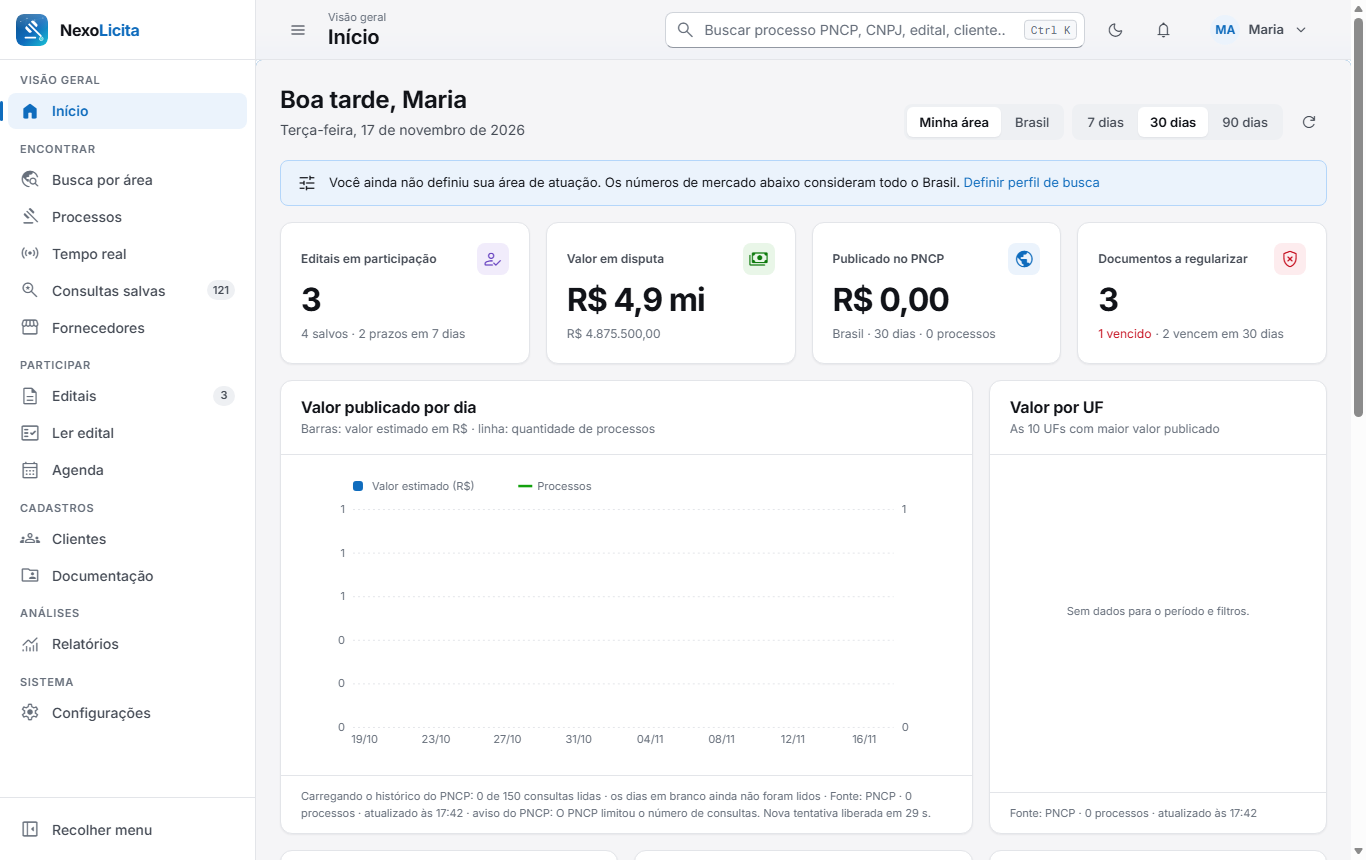
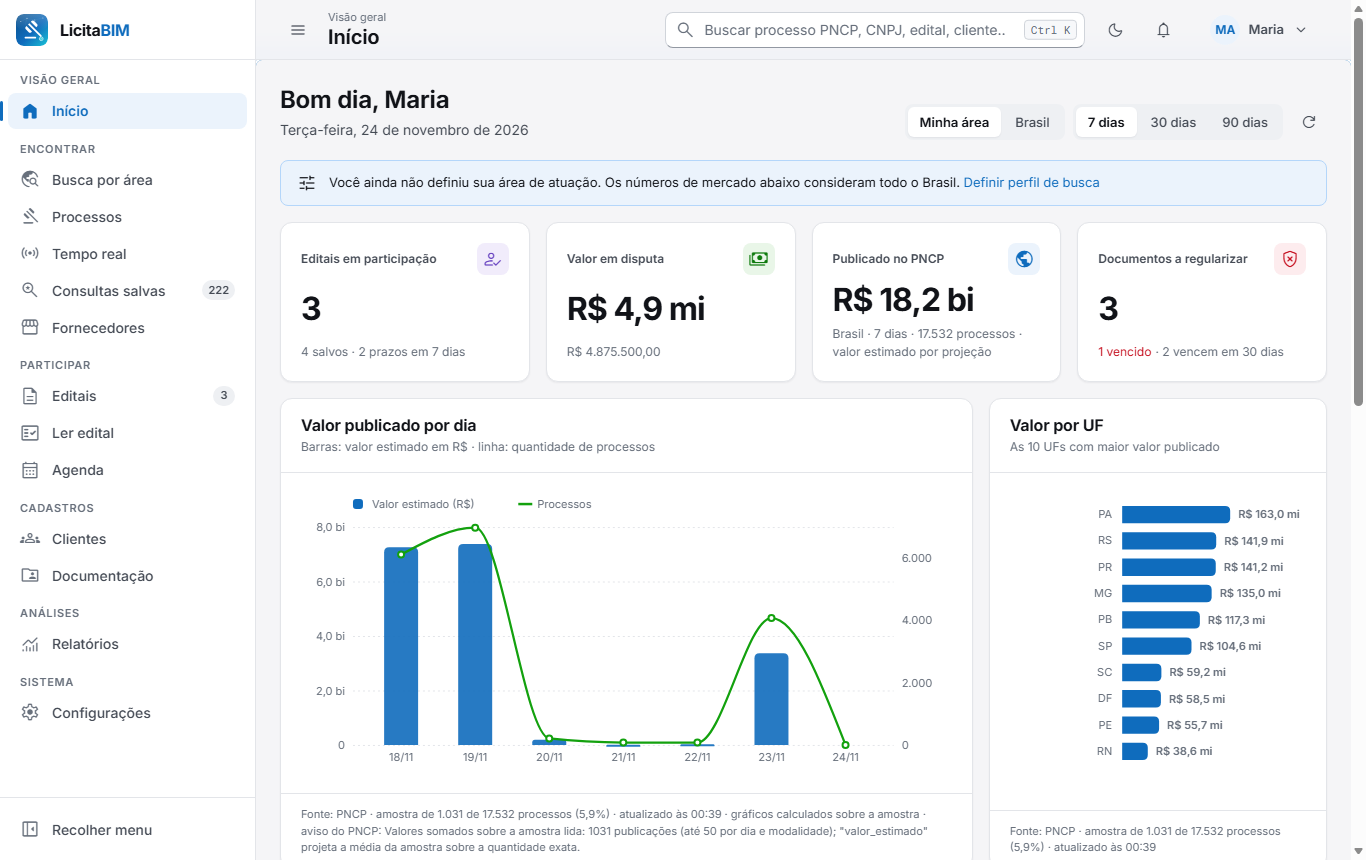
Site atualizado para o LicitaBIM 6.3.0
Remove informações de versões anteriores: módulos que o programa não tem
(Atas, Planos de compra, Contratos), a licença MIT e as promessas de
download gratuito e código aberto (o programa é privado). Capturas refeitas
com a marca LicitaBIM (as antigas mostravam NexoLicita), parecer de
habilitação, canonical e og:image com endereço absoluto.

diff --git a/index.html b/index.html
@@ -8,7 +8,9 @@
   <meta name="theme-color" content="#07090c">
   <meta property="og:title" content="LicitaBIM — licitações públicas com clareza">
   <meta property="og:description" content="Encontre, analise e dispute licitações com dados oficiais do PNCP. Feito em Manaus/AM.">
-  <meta property="og:image" content="img/inicio-1366-light.png">
+  <meta property="og:image" content="https://regivaldsud.github.io/licitaobrasbim-site/img/inicio-1366-light.png">
+  <meta property="og:url" content="https://regivaldsud.github.io/licitaobrasbim-site/">
+  <link rel="canonical" href="https://regivaldsud.github.io/licitaobrasbim-site/">
   <link rel="icon" href="img/favicon-32.png">
   <link rel="apple-touch-icon" href="img/icon-192.png">
   <link rel="preload" href="fonts/inter-latin.woff2" as="font" type="font/woff2" crossorigin>
@@ -29,7 +31,7 @@
     </nav>
     <span class="spacer"></span>
     <a class="btn ghost" href="#contato" style="color:#fff">Falar com a equipe</a>
-    <a class="btn primary" href="#baixar" data-download><span class="ms">download</span>Baixar grátis</a>
+    <a class="btn primary" href="#baixar" data-download><span class="ms">download</span>Pedir o instalador</a>
     <button class="burger" id="burger" aria-label="Abrir menu" aria-expanded="false" aria-controls="menu"><span class="ms">menu</span></button>
   </div>
 </header>
@@ -42,10 +44,10 @@
     <h1>Você decide o preço.<br><span class="grad-text">O LicitaBIM organiza o resto.</span></h1>
     <p class="lead">Encontra o edital no PNCP, lê o PDF, monta o checklist de habilitação, confere a validade de cada certidão e acompanha a sessão pública lance a lance. A decisão de participar e o valor da proposta continuam com você.</p>
     <div class="cta">
-      <a class="btn primary" href="#baixar" data-download><span class="ms">download</span>Baixar para Windows</a>
+      <a class="btn primary" href="#baixar" data-download><span class="ms">download</span>Pedir o instalador para Windows</a>
       <a class="btn ghost" href="#dia" style="color:#fff"><span class="ms">play_circle</span>Ver um dia de uso</a>
     </div>
-    <p class="note">Gratuito e de código aberto (licença MIT) · instala em minutos · seus dados ficam no seu computador</p>
+    <p class="note">Versão 6.3.0 · instalador para Windows com tudo incluído · seus dados ficam no seu computador</p>
     <div class="shot rv"><div class="bar"><i></i><i></i><i></i></div><img src="img/inicio-1366-dark.png" alt="Tela inicial do LicitaBIM com indicadores e gráficos do mercado" width="1366" height="820"></div>
   </div>
 </section>
@@ -83,18 +85,20 @@
     <div class="head rv"><span class="eyebrow">Módulos</span><h2>Um módulo para cada etapa da sua licitação</h2>
       <p class="lead">Cada tela cuida de uma parte do caminho e entrega o resultado para a próxima. Nada é enviado em seu nome: o LicitaBIM organiza, você confere e decide.</p></div>
     <div class="mods">
-      <div class="mod rv"><span class="ic"><span class="ms">travel_explore</span></span><h3>Busca por área</h3><p>Contratações abertas no PNCP, classificadas pela aderência ao seu perfil, com o motivo de cada nota.</p><span class="tag">Encontrar</span></div>
-      <div class="mod rv"><span class="ic"><span class="ms">saved_search</span></span><h3>Consultas salvas</h3><p>Monte a busca uma vez; ela roda sozinha no intervalo escolhido e guarda cada licitação nova.</p><span class="tag">Encontrar</span></div>
-      <div class="mod rv"><span class="ic"><span class="ms">gavel</span></span><h3>Processo 360°</h3><p>Itens, arquivos, resultados, histórico e perfil do órgão de qualquer compra do PNCP.</p><span class="tag">Encontrar</span></div>
-      <div class="mod rv"><span class="ic"><span class="ms">handshake</span></span><h3>Atas (carona)</h3><p>Atas de registro de preço vigentes com itens e fornecedores, para avaliar adesão.</p><span class="tag">Encontrar</span></div>
-      <div class="mod rv"><span class="ic"><span class="ms">event_note</span></span><h3>Planos de compra</h3><p>O PCA dos órgãos: o que eles planejam comprar no ano, antes do edital sair.</p><span class="tag">Antecipar</span></div>
+      <div class="mod rv"><span class="ic"><span class="ms">travel_explore</span></span><h3>Busca por área</h3><p>Contratações abertas no PNCP, com nota de aderência explicada. Filtra por esfera, órgãos federais e Forças Armadas, e continua buscando até analisar todos os registros.</p><span class="tag">Encontrar</span></div>
+      <div class="mod rv"><span class="ic"><span class="ms">saved_search</span></span><h3>Consultas salvas</h3><p>Monte a busca uma vez; o agente a refaz no intervalo escolhido, registra dia e horário de cada execução e guarda cada licitação nova.</p><span class="tag">Encontrar</span></div>
+      <div class="mod rv"><span class="ic"><span class="ms">gavel</span></span><h3>Processo 360°</h3><p>Resumo em linguagem simples, itens, arquivos, resultados e histórico de qualquer compra do PNCP, com download do processo completo em ZIP.</p><span class="tag">Encontrar</span></div>
+      <div class="mod rv"><span class="ic"><span class="ms">sensors</span></span><h3>Tempo real</h3><p>Monitora os processos salvos, avisa quando algo muda e mostra as novas publicações da sua área.</p><span class="tag">Acompanhar</span></div>
+      <div class="mod rv"><span class="ic"><span class="ms">storefront</span></span><h3>Fornecedores</h3><p>Cadastro na Receita, contratos com o governo e itens vencidos de qualquer CNPJ, mais pesquisa de preços.</p><span class="tag">Inteligência</span></div>
+      <div class="mod rv"><span class="ic"><span class="ms">description</span></span><h3>Editais</h3><p>Carteira de participação: acompanhando, vou participar, em preparação, proposta enviada, ganhamos ou perdemos.</p><span class="tag">Participar</span></div>
       <div class="mod rv"><span class="ic"><span class="ms">fact_check</span></span><h3>Ler edital</h3><p>Lê o PDF e monta o checklist de habilitação com a página e o trecho de cada exigência.</p><span class="tag">Analisar</span></div>
+      <div class="mod rv"><span class="ic"><span class="ms">verified</span></span><h3>Parecer de habilitação</h3><p>Apta, regularizar ou não apta: pontuação, risco, alerta de exequibilidade abaixo de 75% e parecer em PDF no padrão ABNT.</p><span class="tag">Habilitar</span></div>
+      <div class="mod rv"><span class="ic"><span class="ms">leaderboard</span></span><h3>Sessão pública</h3><p>As 9 fases do rito, lances por fornecedor com ranking e desconto, mensagens do pregoeiro e importação do PNCP.</p><span class="tag">Disputar</span></div>
+      <div class="mod rv"><span class="ic"><span class="ms">calendar_month</span></span><h3>Agenda</h3><p>Aberturas, encerramentos de propostas e vencimentos de documentos num só calendário, exportável em .ics.</p><span class="tag">Participar</span></div>
+      <div class="mod rv"><span class="ic"><span class="ms">groups</span></span><h3>Clientes</h3><p>Empresas atendidas com perfil de busca, dossiê e editais próprios. Aceita o novo CNPJ alfanumérico.</p><span class="tag">Cadastros</span></div>
       <div class="mod rv"><span class="ic"><span class="ms">folder_shared</span></span><h3>Documentação</h3><p>Certidões de todos os clientes com validade, alertas de vencimento e onde emitir cada uma.</p><span class="tag">Habilitar</span></div>
-      <div class="mod rv"><span class="ic"><span class="ms">leaderboard</span></span><h3>Sessão pública</h3><p>Fases do rito, lances por fornecedor com ranking e desconto, mensagens do pregoeiro.</p><span class="tag">Disputar</span></div>
-      <div class="mod rv"><span class="ic"><span class="ms">sensors</span></span><h3>Tempo real</h3><p>Monitora os processos salvos e avisa quando muda situação, prazo ou valor.</p><span class="tag">Acompanhar</span></div>
-      <div class="mod rv"><span class="ic"><span class="ms">storefront</span></span><h3>Fornecedores</h3><p>Cadastro na Receita, contratos em todo o Brasil e itens vencidos de qualquer CNPJ.</p><span class="tag">Inteligência</span></div>
-      <div class="mod rv"><span class="ic"><span class="ms">receipt_long</span></span><h3>Contratos</h3><p>Depois da vitória: vigência, termos aditivos e notas fiscais de cada contrato.</p><span class="tag">Executar</span></div>
       <div class="mod rv"><span class="ic"><span class="ms">monitoring</span></span><h3>Relatórios</h3><p>Painel de mercado com valores reais em R$ e documentos em PDF no padrão ABNT.</p><span class="tag">Analisar</span></div>
+      <div class="mod rv"><span class="ic"><span class="ms">smartphone</span></span><h3>Celular e equipe</h3><p>Acesso pela rede privada Tailscale, perfis de acesso por pessoa e auditoria de cada alteração.</p><span class="tag">Sistema</span></div>
     </div>
   </div>
 </section>
@@ -126,7 +130,8 @@
       <ul class="ticks">
         <li><span class="ms">menu_book</span>Lê também o Termo de Referência quando o edital remete a ele.</li>
         <li><span class="ms">rule</span>Compara o checklist com os documentos do cliente e mostra o % de prontidão.</li>
-        <li><span class="ms">picture_as_pdf</span>Relatório do edital em PDF no padrão ABNT.</li>
+        <li><span class="ms">verified</span>Parecer de habilitação: apta, regularizar ou não apta, com risco e alerta de exequibilidade.</li>
+        <li><span class="ms">picture_as_pdf</span>Relatório do edital e parecer em PDF no padrão ABNT.</li>
       </ul>
       <a class="link" href="#prometemos">Leia também o que não prometemos<span class="ms">arrow_forward</span></a>
     </div>
@@ -182,7 +187,7 @@
     <div class="rv"><span class="eyebrow" style="color:#7fe3ee">Quem decide</span>
       <h2 style="font-size:clamp(32px,4.6vw,56px);margin-top:12px">O preço é seu. O resto o LicitaBIM organiza.</h2>
       <p class="lead center" style="color:#c9d5e3;margin:18px auto 0">Você conhece a sua margem e o seu piso. O programa cuida de encontrar, ler, conferir, lembrar e registrar, para você chegar na sessão com tudo no lugar.</p>
-      <div style="margin-top:30px;display:flex;gap:12px;justify-content:center;flex-wrap:wrap"><a class="btn light" href="#baixar" data-download><span class="ms">download</span>Baixar grátis</a><a class="btn ghost" href="#contato" style="color:#fff">Falar com a equipe</a></div></div>
+      <div style="margin-top:30px;display:flex;gap:12px;justify-content:center;flex-wrap:wrap"><a class="btn light" href="#baixar" data-download><span class="ms">download</span>Pedir o instalador</a><a class="btn ghost" href="#contato" style="color:#fff">Falar com a equipe</a></div></div>
   </div>
 </section>
 
@@ -240,7 +245,7 @@
       <span class="eyebrow"><span class="ms">visibility</span>Controle</span>
       <h2>Organizar não é trabalhar no escuro</h2>
       <p class="lead">Você vê cada consulta que o programa executou, com dia, horário e quantos registros do PNCP analisou. Vê a validade de cada certidão, o que já virou contrato e o que ainda depende de você.</p>
-      <a class="link" href="#baixar" data-download>Baixar e experimentar<span class="ms">arrow_forward</span></a>
+      <a class="link" href="#contato">Pedir uma demonstração<span class="ms">arrow_forward</span></a>
     </div>
     <div class="frame rv"><img src="img/consulta-historico-1366-light.png" alt="Histórico de execuções das consultas salvas" loading="lazy"></div>
   </div>
@@ -249,11 +254,11 @@
 <!-- 15. Preço -->
 <section class="s" id="preco">
   <div class="wrap">
-    <div class="head center rv" style="text-align:center"><span class="eyebrow">Preço</span><h2>Quanto custa</h2><p class="lead center">O LicitaBIM é gratuito e de código aberto. Se a sua empresa quiser ajuda para implantar, treinar a equipe ou adaptar o programa, a gente conversa.</p></div>
+    <div class="head center rv" style="text-align:center"><span class="eyebrow">Preço</span><h2>Quanto custa</h2><p class="lead center">O valor depende do número de clientes, de usuários e do apoio que a sua equipe precisa. Conte como você trabalha e enviamos a proposta.</p></div>
     <div class="price">
-      <div class="plan hl rv"><span class="tagp">Para começar hoje</span><h3>LicitaBIM</h3><div class="val">R$ 0<small> · licença MIT</small></div>
-        <ul><li><span class="ms">check</span>Todos os módulos, sem limite de clientes ou usuários.</li><li><span class="ms">check</span>Instalador para Windows com tudo incluído.</li><li><span class="ms">check</span>Acesso pelo celular na sua rede privada.</li><li><span class="ms">check</span>Atualizações publicadas no repositório.</li></ul>
-        <a class="btn primary" href="#baixar" data-download><span class="ms">download</span>Baixar grátis</a></div>
+      <div class="plan hl rv"><span class="tagp">O programa</span><h3>Licença LicitaBIM</h3><div class="val" style="font-size:32px">Sob consulta</div>
+        <ul><li><span class="ms">check</span>Todos os módulos da versão 6.3.0.</li><li><span class="ms">check</span>Instalador para Windows com tudo incluído.</li><li><span class="ms">check</span>Acesso pelo celular na sua rede privada.</li><li><span class="ms">check</span>Atualizações de versão enviadas pela equipe.</li></ul>
+        <a class="btn primary" href="#baixar" data-download><span class="ms">download</span>Pedir o instalador</a></div>
       <div class="plan rv"><span class="tagp">Para equipes</span><h3>Implantação e suporte</h3><div class="val" style="font-size:32px">Sob consulta</div>
         <ul><li><span class="ms">check</span>Instalação e configuração do acesso remoto.</li><li><span class="ms">check</span>Cadastro inicial de clientes e documentos.</li><li><span class="ms">check</span>Treinamento da equipe em cada módulo.</li><li><span class="ms">check</span>Ajustes sob medida para o seu processo.</li></ul>
         <a class="btn ghost" href="#contato" style="color:var(--blue)">Falar com a equipe</a></div>
@@ -266,7 +271,7 @@
   <div class="wrap">
     <div class="head center rv" style="text-align:center"><span class="eyebrow">Perguntas frequentes</span><h2>Antes de começar</h2></div>
     <div class="faq">
-      <details><summary>O que é grátis?<span class="ms">add</span></summary><p>O programa inteiro. O LicitaBIM é distribuído sob a licença MIT: você pode usar, copiar e adaptar sem custo. Só a implantação assistida e o suporte dedicado são cobrados, se você quiser.</p></details>
+      <details><summary>Como recebo o programa?<span class="ms">add</span></summary><p>Pelo formulário de contato. A equipe envia o instalador para Windows (versão 6.3.0) e orienta o primeiro acesso, em que você cria o administrador.</p></details>
       <details><summary>Preciso de internet?<span class="ms">add</span></summary><p>Para abrir o programa, não: o instalador traz tudo o que ele precisa. Para consultar o PNCP, o Compras.gov.br e os dados de CNPJ, sim, porque esses dados vêm das fontes oficiais na hora.</p></details>
       <details><summary>Onde ficam os meus dados?<span class="ms">add</span></summary><p>No seu computador, na pasta de dados do Windows (%APPDATA%\LicitaBIM). Eles são preservados quando você atualiza o programa e não são enviados para servidores de terceiros.</p></details>
       <details><summary>Como uso pelo celular?<span class="ms">add</span></summary><p>Em Configurações → Acesso remoto, ligue o acesso pelo Tailscale. Abra o endereço HTTPS mostrado num celular conectado à mesma conta Tailscale e instale como aplicativo.</p></details>
@@ -275,7 +280,7 @@
       <details><summary>Em quais portais ele busca?<span class="ms">add</span></summary><p>No Portal Nacional de Contratações Públicas (PNCP), que reúne as contratações de União, estados e municípios pela Lei 14.133, e no Compras.gov.br para contratos, preços e catálogo. A sessão de lances acontece no portal do órgão; o LicitaBIM registra e organiza.</p></details>
       <details><summary>Serve para escritórios com vários clientes?<span class="ms">add</span></summary><p>Sim. Cada cliente tem perfil, documentos e editais próprios, e cada pessoa da equipe tem um perfil de acesso com permissões diferentes.</p></details>
       <details><summary>Funciona no Mac ou no Linux?<span class="ms">add</span></summary><p>O instalador é para Windows. No Mac e no Linux o programa roda em modo servidor (Python) e é usado pelo navegador.</p></details>
-      <details><summary>Quem desenvolve o LicitaBIM?<span class="ms">add</span></summary><p>Uma equipe de Manaus, no Amazonas. O código é aberto, então qualquer pessoa pode conferir como o programa trata os dados.</p></details>
+      <details><summary>Quem desenvolve o LicitaBIM?<span class="ms">add</span></summary><p>Uma equipe de Manaus, no Amazonas. Cada versão é testada de ponta a ponta como cada perfil de usuário: na 6.3.0, foram 1008 verificações aprovadas.</p></details>
     </div>
   </div>
 </section>
@@ -316,7 +321,7 @@
       <div><h4>Recursos</h4><a href="#perguntas">Perguntas frequentes</a><a href="#prometemos">O que não prometemos</a><a href="#escritorios">Para escritórios</a><a href="#baixar" data-download>Baixar</a></div>
       <div><h4>Contato</h4><a href="#contato">Fale com a equipe</a><span style="display:block;padding:4px 0">Manaus – AM, Brasil</span></div>
     </div>
-    <div class="bottom"><span>© <span id="ano">2026</span> LicitaBIM · Licença MIT</span><span>Dados públicos do PNCP e do Compras.gov.br. O LicitaBIM não tem vínculo com o Governo Federal.</span></div>
+    <div class="bottom"><span>© <span id="ano">2026</span> LicitaBIM · Todos os direitos reservados</span><span>Dados públicos do PNCP e do Compras.gov.br. O LicitaBIM não tem vínculo com o Governo Federal.</span></div>
   </div>
 </footer>
 

diff --git a/script.js b/script.js
@@ -2,7 +2,7 @@
    CONFIGURE AQUI antes de publicar: */
 document.documentElement.classList.add('js');
 const CONFIG = {
-  DOWNLOAD_URL: '',        // ex.: 'downloads/LicitaBIM-Setup-6.3.0.exe' ou o link da página de versões
+  DOWNLOAD_URL: '',        // vazio = o botão leva ao formulário de contato; ex.: link público do LicitaBIM-Setup-6.3.0.exe
   CONTATO_WHATSAPP: '5569992065695', // WhatsApp de contato (55 + DDD + número)
   CONTATO_EMAIL: '',       // ex.: 'contato@seudominio.com.br'
 };
@@ -26,7 +26,7 @@ $$('[data-download]').forEach(a => {
   a.addEventListener('click', e => {
     e.preventDefault();
     $('#contato').scrollIntoView({ behavior: 'smooth' });
-    const m = $('#formMsg'); m.textContent = 'O link de download será publicado em breve. Deixe seu contato e enviamos o instalador.';
+    const m = $('#formMsg'); m.textContent = 'Deixe seu contato e enviamos o instalador da versão 6.3.0.';
   });
 });
 
@@ -40,6 +40,7 @@ const DIA = [
   { h: '08:30', t: 'Triagem por aderência', d: 'Na Busca por área, cada contratação tem uma nota de 0 a 100 com o motivo: objeto, região, valor, prazo e modalidade. Você salva as que valem a pena e descarta o resto.', img: 'busca-continua-1366-light.png' },
   { h: '10:00', t: 'Ler o edital', d: 'O PDF é baixado do PNCP e lido. Em poucos segundos sai o resumo e o checklist de habilitação, com a página e o trecho de cada exigência.', img: 'edital-checklist-1366-light.png' },
   { h: '11:30', t: 'Documentos do cliente', d: 'O checklist é comparado com as certidões cadastradas. Aparece o que está válido, o que vence antes da sessão e o que falta, com o link oficial para emitir.', img: 'documentacao-1366-light.png' },
+  { h: '12:30', t: 'Parecer de habilitação', d: 'O parecer resume a situação: apta, regularizar ou não apta, com pontuação, risco e o alerta se a proposta ficar abaixo de 75% do estimado. Sai em PDF no padrão ABNT.', img: 'parecer-1366-light.png' },
   { h: '14:00', t: 'Sessão pública', d: 'Durante a disputa, os lances de cada fornecedor entram no ranking com o desconto sobre o estimado. As mensagens do pregoeiro ficam registradas no processo.', img: 'sessao-publica-ranking-1366-light.png' },
   { h: '16:00', t: 'Tempo real', d: 'Os processos que você acompanha são consultados de novo. Mudou a situação, o prazo ou o valor? O LicitaBIM destaca a diferença.', img: 'tempo-real-1366-light.png' },
   { h: '17:30', t: 'Relatório em ABNT', d: 'O dia termina com o relatório do edital ou o dossiê do cliente em PDF, no padrão ABNT, pronto para enviar.', img: 'relatorios-1366-light.png' },
@@ -58,7 +59,11 @@ showHour(0);
 const TOUR = [
   { id: 'busca', ic: 'travel_explore', l: 'Busca por área', img: 'busca-continua-1366-light.png', c: 'Contratações abertas no PNCP, classificadas pela aderência ao seu perfil.' },
   { id: 'editais', ic: 'description', l: 'Editais', img: 'editais-1366-light.png', c: 'Carteira de participação com valor em disputa, prazos e andamento do checklist.' },
-  { id: 'processo', ic: 'gavel', l: 'Processo 360°', img: 'processos-1366-light.png', c: 'Itens, arquivos, resultados e histórico de qualquer compra do PNCP.' },
+  { id: 'consultas', ic: 'saved_search', l: 'Consultas salvas', img: 'consulta-detalhe-1366-light.png', c: 'Licitações guardadas pelo agente, com as novas em destaque e a data em que cada uma foi encontrada.' },
+  { id: 'processo', ic: 'gavel', l: 'Processo 360°', img: 'processos-1366-light.png', c: 'Resumo, itens, arquivos, resultados e histórico de qualquer compra do PNCP.' },
+  { id: 'parecer', ic: 'verified', l: 'Parecer de habilitação', img: 'parecer-1366-light.png', c: 'Recomendação preliminar, pontuação, risco e alerta de exequibilidade, com parecer em PDF no padrão ABNT.' },
+  { id: 'sessao', ic: 'leaderboard', l: 'Sessão pública', img: 'sessao-publica-1366-light.png', c: 'Fases do rito, lances por fornecedor e mensagens do pregoeiro.' },
+  { id: 'clientes', ic: 'groups', l: 'Clientes', img: 'clientes-1366-light.png', c: 'Empresas atendidas, situação dos documentos e editais de cada uma.' },
   { id: 'fornecedores', ic: 'storefront', l: 'Fornecedores', img: 'fornecedores-1366-light.png', c: 'Cadastro na Receita, contratos e itens vencidos por CNPJ.' },
   { id: 'agenda', ic: 'calendar_month', l: 'Agenda', img: 'agenda-1366-light.png', c: 'Aberturas, encerramentos e vencimentos de documentos num só calendário.' },
   { id: 'relatorios', ic: 'monitoring', l: 'Relatórios', img: 'relatorios-1366-light.png', c: 'Painel de mercado com valores reais em R$ e PDF no padrão ABNT.' },

diff --git a/README.md b/README.md
@@ -4,8 +4,10 @@ Site institucional do **LicitaBIM** — licitações públicas com clareza, do e
 
 Publicado pelo GitHub Pages: **https://regivaldsud.github.io/licitaobrasbim-site/**
 
+Descreve a versão **6.3.0** do programa (repositório `regivaldsud/licitaobrasbim`).
+
 - `index.html`, `styles.css`, `script.js` — página única, sem build.
-- `img/` — capturas reais do programa; `fonts/` — Inter e Material Symbols (licenças OFL e Apache 2.0).
+- `img/` — capturas reais do programa, copiadas de `docs/img/` do repositório do programa (dados fictícios dos testes); `fonts/` — Inter e Material Symbols (licenças OFL e Apache 2.0).
 - Configurações (download e WhatsApp) no topo de `script.js`.
 
-Licença MIT.
+© 2026 LicitaBIM. Todos os direitos reservados.
